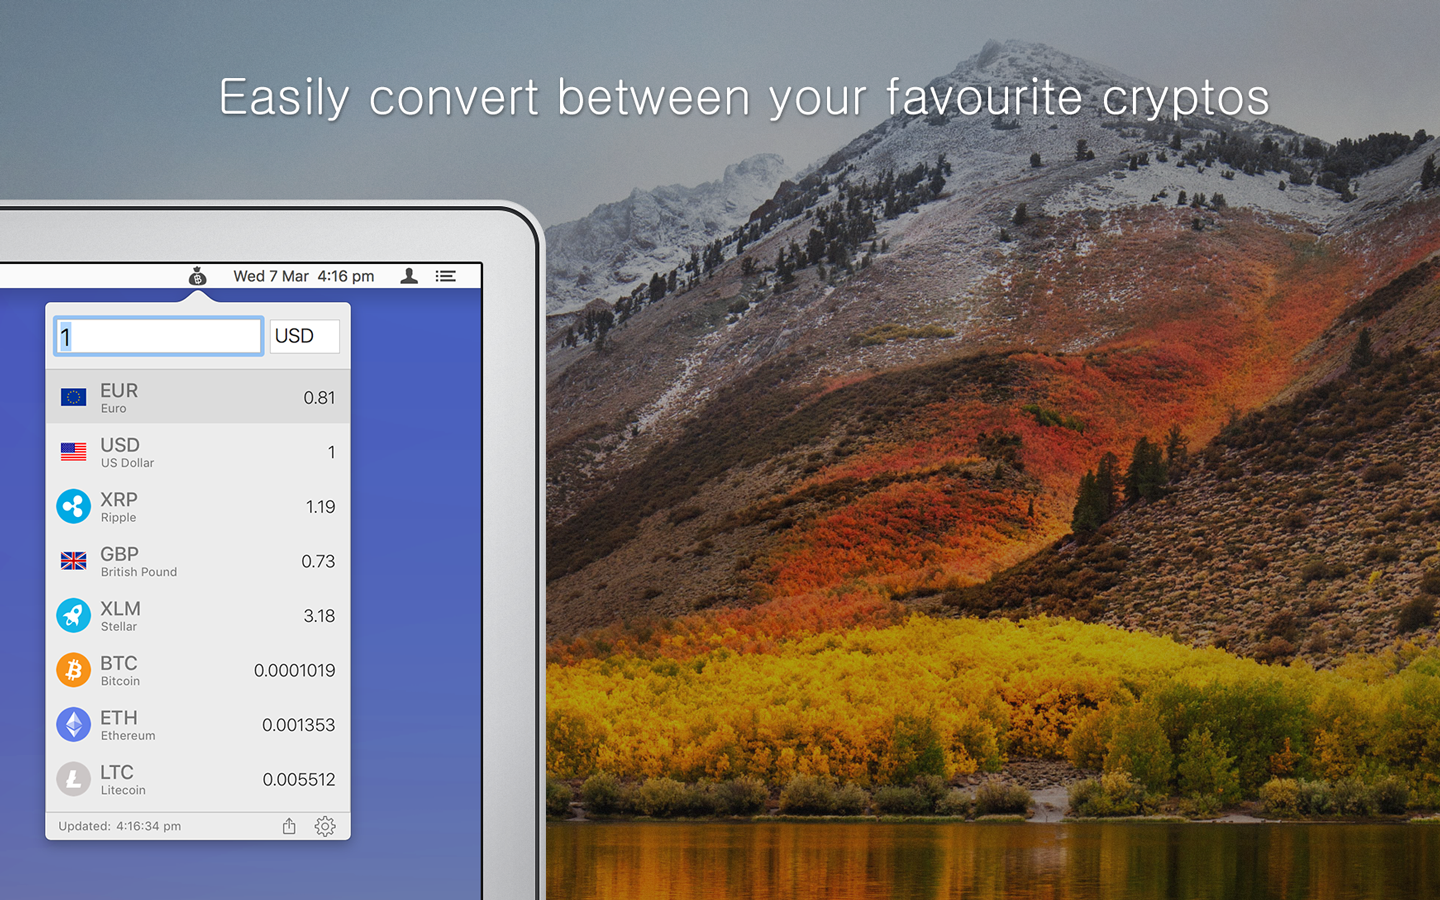
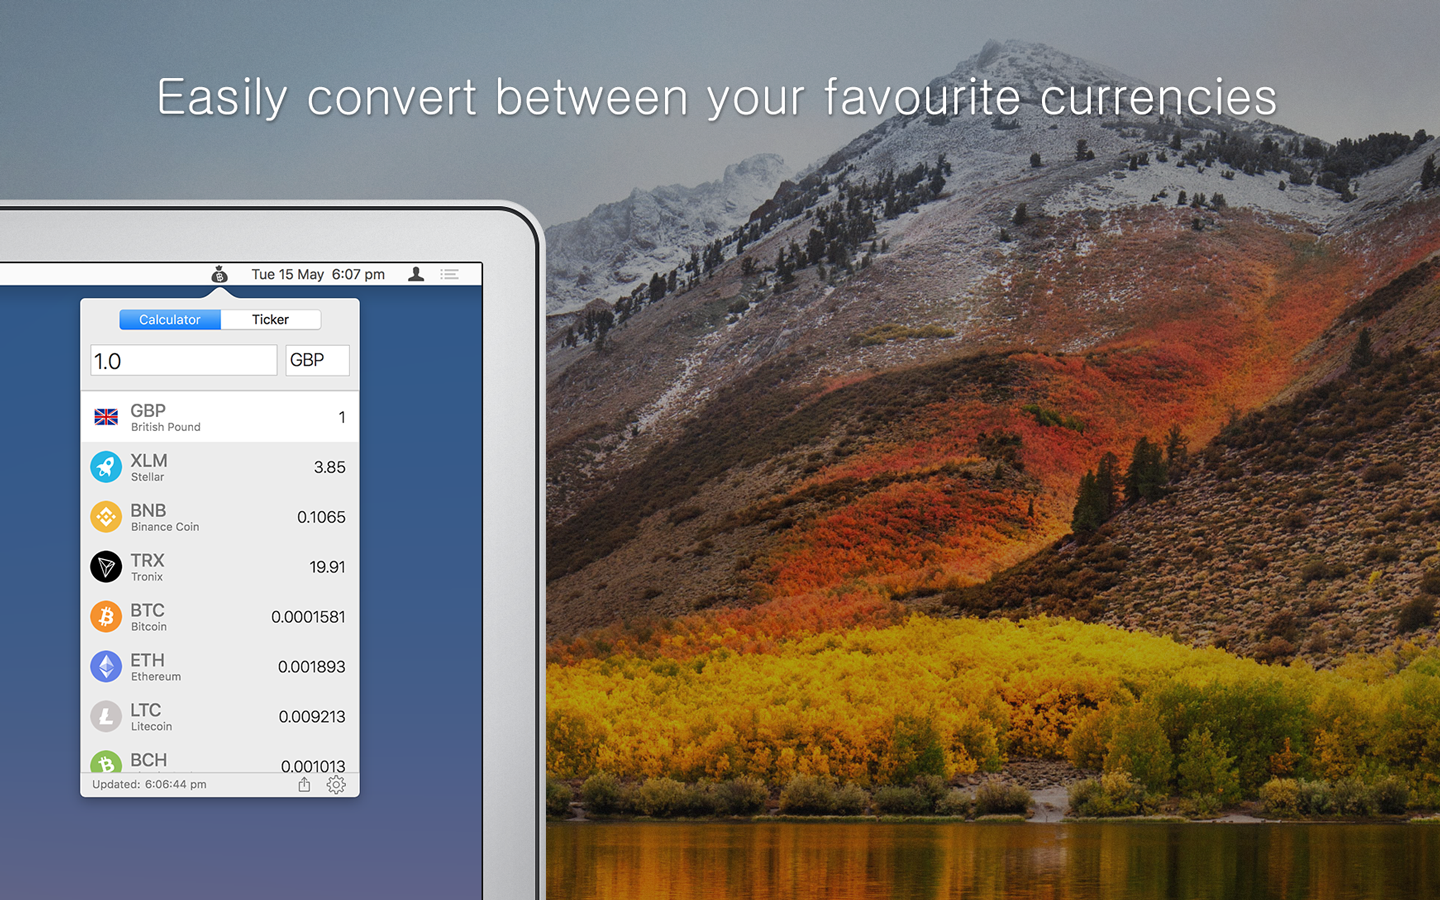
Updated crypto tools pages

Changed region(s): [[0.0, 0.28, 0.3438, 1.0], [0.0938, 0.0622, 0.9062, 0.1556]]

diff --git a/_layouts/crypto-calc-wrapper.html b/_layouts/crypto-calc-wrapper.html
@@ -10,8 +10,8 @@
   </head>
   <body>
     <section class="page-header">
-      <h1 class="project-name">Crypto Calculator</h1>
-      <h2 class="project-tagline">Crypto Calculator is a Mac app that lets you convert between your favourite cryptos, right in your status bar</h2>	 	  
+      <h1 class="project-name">Crypto Tools</h1>
+      <h2 class="project-tagline">Crypto Tools is a Mac app that lets you convert between your favourite cryptos, right in your status bar</h2>	 	  
     </section>
 
     <section class="main-content">

diff --git a/apps/crypto-calculator/index.md b/apps/crypto-calculator/index.md
@@ -1,28 +1,28 @@
 ---
 layout: crypto-calc
-title: Crypto Calculator for the Mac
+title: Crypto Tools for the Mac
 ---
-# Download Crypto Calculator on the Mac AppStore
-Crypto Calculator is a handy menu bar app to help you convert between fiat and crypto currencies.  The latest exchange data is always live in your menu bar and updated each time you open the popover.
+# Download Crypto Tools on the Mac AppStore
+Crypto Tools Pro is a handy menu bar app to convert between fiat currencies and cryptos.  Also features a live ticker feed.  Get the latest exchange data live in your menu bar.
 
-## Features - Free Version
+## Features - Pro Version
 [![][image-1]][1]
 
-- Live conversion between cryptos and popular fiat currencies
-- Most popular cryptos and fiats available
-- Customise your favourites up to 125 currencies
-- Just one click away in your menu bar
-- Set a global keyboard shortcut to open popover
-- Quickly select the crypto of your choice with auto-complete in the currency combobox
+- Live conversion between practically all crypto and fiat currencies
+- Live ticker feed to keep track of your cryptos
+- Percentage change in last 24 hrs
+- Includes 138 international (fiat) currencies
+- 242 crypto currencies
+- Customise your shortlist up to 125 currencies
+- One click away in your menu bar
+- Set a global keyboard shortcut
+- Quickly select your currencies with auto-complete in the combobox
 - Adjust converted results to update inputs
-- Keyboard friendly for quick access
-- Free version is limited to 6 currencies
 
-## Pro Version 
+## Features - Free Version
 [![][image-2]][2]
 
-- Choose from 138 fiats and 242 crypto currencies
-- Save up to 125 currencies as favourites
+Free version is limited to 6 currencies, upgrade to Pro to access everything.
 
 ## About the App
 ![][image-3]
@@ -53,8 +53,8 @@ See the [changelog][10]
 ## Contact
 If you have any enquiries or requests please [get in touch][11].
 
-[1]:	https://geo.itunes.apple.com/us/app/crypto-calculator/id1345035239?mt=12
-[2]:	https://geo.itunes.apple.com/us/app/crypto-calculator-pro/id1356754071?mt=12
+[1]:	https://geo.itunes.apple.com/us/app/crypto-calculator-pro/id1356754071?mt=12
+[2]:	https://geo.itunes.apple.com/us/app/crypto-calculator/id1345035239?mt=12
 [3]:	https://github.com/cjdowner/cryptocurrency-icons
 [4]:	https://www.cryptocompare.com/api/
 [5]:	https://github.com/phranck/CCNStatusItem
@@ -62,11 +62,11 @@ If you have any enquiries or requests please [get in touch][11].
 [7]:	https://github.com/ashleymills/Reachability.swift
 [8]:	https://github.com/shpakovski/MASShortcut
 [9]:	https://github.com/DaveWoodCom/XCGLogger
-[10]:	Crypto%20Calculator%20Changelog
+[10]:	Crypto%20Tools%20Changelog
 [11]:	mailto:support@seagullsystems.com
 
 [image-1]:	images/Download_on_the_Mac_App_Store_Badge_US-UK_165x40.svg
 [image-2]:	images/Download_on_the_Mac_App_Store_Badge_US-UK_165x40.svg
 [image-3]:	images/icon_512x512.png
 [image-4]:	images/crypto-currency-1.png
-[image-5]:	images/crypto-currency-3.png
+[image-5]:	images/crypto-currency-4.png

diff --git a/apps/crypto-calculator/Crypto Tools Changelog.md b/apps/crypto-calculator/Crypto Tools Changelog.md
@@ -1,4 +1,15 @@
-# Crypto Calculator Changelog
+# Crypto Tools Changelog
+
+## 1.0.9 (Jun 27, 2018)
+- Added currency percentage change for last 24 hours in the Ticker view
+
+## 1.0.8 (May 23, 2018)
+- Fixed bug where Ticker view would be blank after network failure
+- popover resizes according to number of currencies displayed
+
+## 1.0.7 (May 16, 2018)
+- Updated to tabbed UI
+- Added second tab: crypto ticker
 
 ## 1.0.6 (Mar 7, 2018)
 - Customise currencies in Preferences
